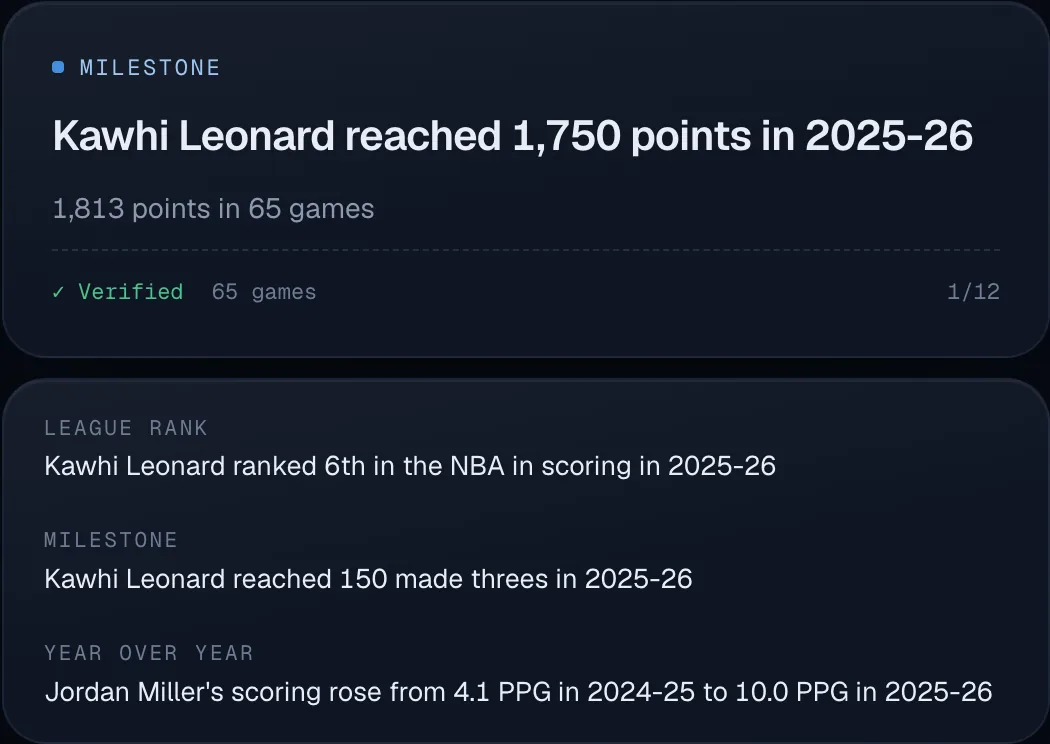
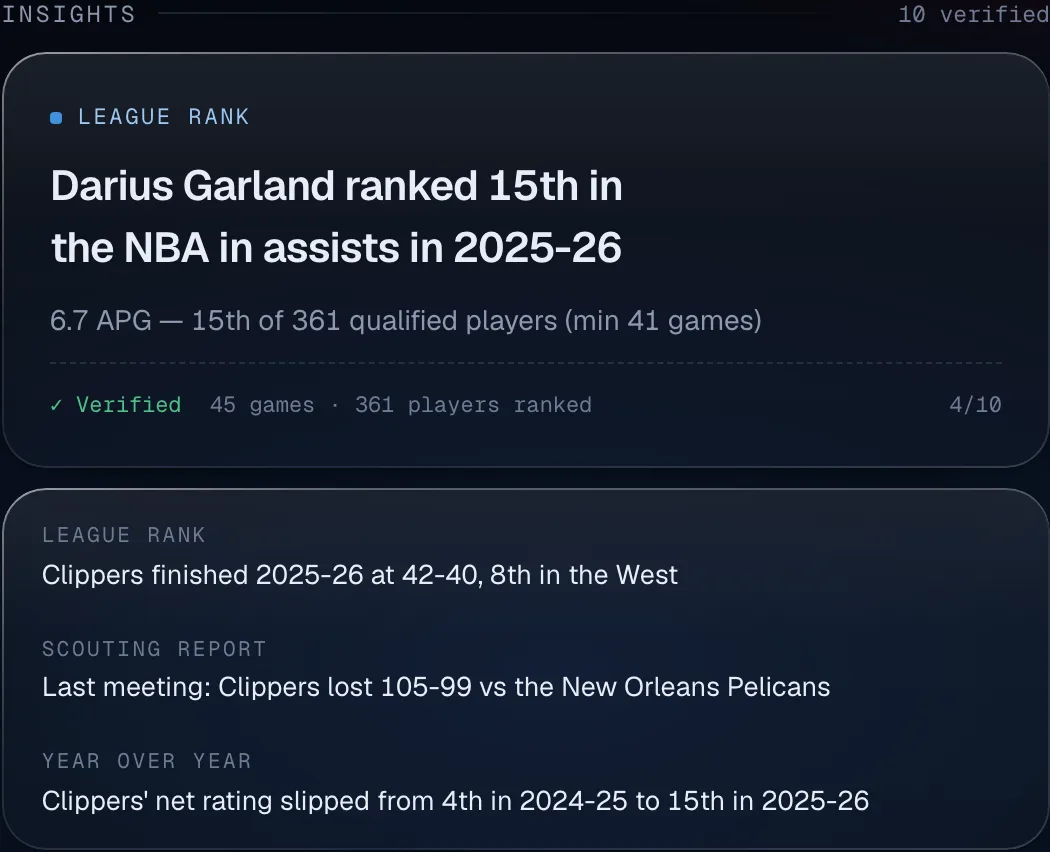
content: bring every project up to date (7 Nov 2026)
Each project was checked against its repository's main, its live site
and GitHub. Circuit: Hardwood's new card, the staged Hivemind and
Outlier, the second supply run. Mapped: Seas, 12 games, 66 boards, a
Seas capture. CCC: the game nights so far, the CDN outage and its fixes,
the Durable Object hub, new captures. Shedquarters: hand deploys, KV
backup, current-look media, production ahead of GitHub. Aglow and
Solitaire are public, with the radio, leaderboard and phone layout.
OnAir: six leagues and the Guide. BJS: six of eight steps merged, 0.45%
baseline. PFC and KWX: current counts. Test totals come from running
each suite. The quality log lists every source.

diff --git a/content/projects.ts b/content/projects.ts
@@ -99,7 +99,7 @@ export const projects: Project[] = [
     href: '/work/shed',
     description: 'Skill ratings for a house beer-die and spikeball league, scored offline-first from a phone at the table.',
     stack: 'Next.js · Postgres · OpenSkill',
-    screenshot: { src: '/shots/shed.webp', width: 2640, height: 1485 },
+    screenshot: { src: '/shots/shed.webp', width: 1440, height: 810 },
   },
   {
     slug: 'solitaire',
@@ -133,7 +133,7 @@ export const projects: Project[] = [
     selected: false,
     where: 'mapped.lukeghanna.com',
     href: '/work/mapped',
-    description: 'A map-first geography quiz on countries, flags and capitals, with 63 leaderboards the server checks by replaying every game.',
+    description: 'A map-first geography quiz on countries, flags, capitals and seas, with 66 leaderboards the server checks by replaying every game.',
     stack: 'React · d3-geo · Cloudflare D1',
     screenshot: { src: '/work/mapped/world.webp', width: 2880, height: 1620 },
   },
@@ -145,7 +145,7 @@ export const projects: Project[] = [
     selected: false,
     where: 'aglow.lukeghanna.com',
     href: '/work/aglow',
-    description: 'The Christmas Tree Light Up puzzle with its original rules, rebuilt so every connection sends light flowing through the tree.',
+    description: 'The Christmas Tree Light Up puzzle with its original rules, now with a radio and a leaderboard that replays every run on the server.',
     stack: 'TypeScript · Canvas 2D · Web Audio',
     screenshot: { src: '/work/aglow/fireside.webp', width: 2880, height: 1800 },
   },
@@ -155,9 +155,9 @@ export const projects: Project[] = [
     statusLabel: 'iOS',
     live: false,
     selected: false,
-    where: 'counting next',
+    where: 'shoe simulator next',
     href: '/work/bjs',
-    description: 'A native blackjack trainer on a tested Swift package. The strategy trainer is the first screen done.',
+    description: 'A native blackjack trainer on a tested Swift package: strategy, counting, edge and progress are built; the shoe simulator is next.',
     stack: 'Swift 6 · SwiftUI · SwiftData',
     screenshot: { src: '/shots/bjs.webp', width: 660, height: 1434, phone: true },
   },

diff --git a/docs/QUALITY.md b/docs/QUALITY.md
@@ -170,3 +170,22 @@ Gate: lint, typecheck, `npm run test:unit` (38), `npm run build` (ten SSG write-
 **Tests.** The repositioning commit (`78ec02a`) reordered `content/projects.ts` but left `tests/unit/projects.test.ts` on the old order, so three unit tests were failing on `main`; they now assert the current order with Circuit.
 
 Gate: lint, typecheck, `npm run test:unit` (38), `npm run build` (eleven SSG write-ups), `npx playwright test` (120 passed, 12 intentional skips; axe clean on `/work/circuit` on desktop and mobile). Visual check in the dev preview: the Circuit card fifth in the grid, Solitaire first in the index, all three figures loading, no horizontal scroll.
+
+## Update pass (2026-11-07)
+
+Every project was checked against its repository's `main`, its live site and GitHub, by read-only audits per project, then rewritten where stale. Each figure below was re-derived from the named commit; counts are from running the suites, not from grepping.
+
+- **Circuit** (circuit `c22bc8c`, live): Hardwood's six-clue card (`hardwood-config.ts`), Hivemind and Outlier one stage at a time, the tested cell colours, and the second supply run at 05:31 UTC with the 9 ms first-draw measurement (`generation.ts`, `wrangler.jsonc`). Fathom's top-up is named as not done. The Atlas thumbnails in Fig. 1 and Fig. 4 predate the new cell colours; the captures were not retaken because the session that made them had ended.
+- **Mapped** (`cc64c49`, live bundle `index-EwIpikFg.js`): Seas, a fourth topic (55 bodies of water from Natural Earth 1:50m; 59 other waters, 56 of them drawn hatched; 599 KB against its own 600 KB budget), 12 games, 66 boards, 57 territories with 41 drawn, a 679 KB map, 397 Vitest tests across 34 files (run), 53 Playwright tests (48 desktop, 5 phone; counted). New Fig. 3, World · Seas · Locate, from the live site at 1440×810 at 2× with `/api/games` aborted, targets clicked by a script.
+- **CCC** (`e3e860a`): live mode ran through the 21, 23 and 25 October games (Actions runs 39706347013, 40046839707, 40237322421), then lost the NBA CDN to 403s from about 27 October; the ESPN fallback and self-relaunching runner merged 3–5 November and have not yet run in a game. Durable Object hub with WebSocket push, six pages with News, 652 tests plus 34 todo across 63 files and 16 hub tests (CI run 42135304934). New captures of home, Darius Garland's page and one insight, from clippers.lukeghanna.com on 7 November, replacing the September ones that showed Kawhi Leonard.
+- **Shedquarters**: GitHub `main` is `3aaeb31`; production runs local `main` `f0ea6cd`, six commits ahead and unpushed, and the write-up says so. Hand deploys with `npm run deploy`, the 09:00 UTC backup to Workers KV, 738 tests across 57 files (CI on `22cfc9e`), the desktop layout. Media replaced with the repo's own `docs/media` at `c89c2fc`, recorded against made-up players; the card crop is the top 1440×810 of `desktop.png`.
+- **Aglow** (`acb20a8`): public and MIT; radio, `/admin`, Google accounts and a replay-checked leaderboard, on a Worker with D1 and R2. 1,079 Vitest tests in 108 files (run), 167 Playwright (listed). Daily Tree, Advent and ghost replays are left out: the live site serves them from an unpushed branch. Captures are dated 1 October, before the radio pill and account chip.
+- **Solitaire** (`90fc86c`): public; the v1.3 phone layout; Workers static assets; 203 Vitest tests in 28 files (run), 53 Playwright tests, 86 runs.
+- **OnAir** (`be9e451`): six leagues with NHL, the Guide and live channels, the extraction-timeout fix; 738 Jest tests in 39 suites (run). Captures dated before the Guide.
+- **BJS** (`dc16759`): six of eight rebuild steps merged, shoe simulator next, nothing released; tests 263 engine, 233 app, 6 UI (README); edge baseline 0.45% (`EdgeCalculatorTests.swift` asserts 0.44686); edge from the Wizard of Odds table with 38 reference cases. No CI on `main`, so GitHub Actions left the stack line.
+- **PFC** (local `74b5b1a`): six MCP write tools, not four; 1,567 commits, 43 migrations, 327 test files, 3,229 unit tests registered; the read-only MCP endpoint for claude.ai. The Playwright total was not re-counted and is no longer stated.
+- **KWX**: the scanner never stopped; 10,817 settled signals through 6 November (7,440 in the study, 3,377 since 22 September), zero orders and fills, counted from a copy of `kwx.db`.
+- **Beacon**: current as of `05503e4`.
+- **Tonight**: still not listed. TestFlight build 12 is internal only, with no external testers or users, and its launch blockers are open.
+
+GitHub: descriptions, homepages and topics brought in line (Circuit, Aglow, Solitaire, CCC, Shedquarters, BT, BT-docs; `vercel` topics replaced with `cloudflare-workers`); PFC-docs and BT-docs status sections updated; the profile README's Mapped, Aglow, OnAir and BJS lines updated.
